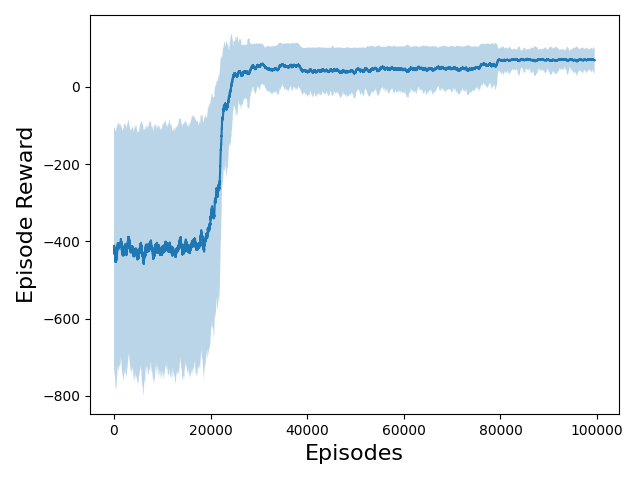
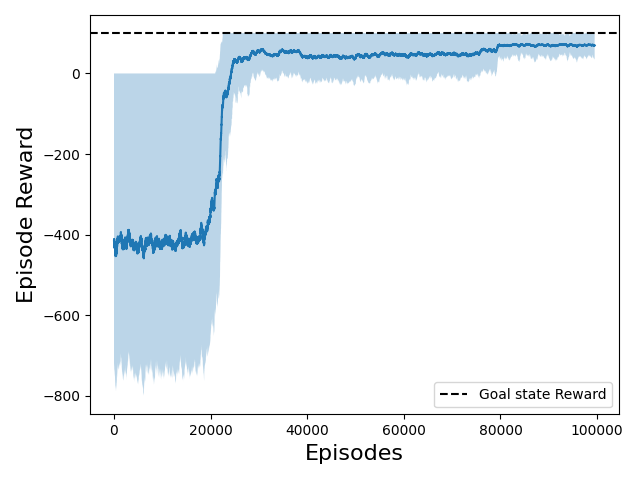
upper bound of reward added in plot

diff --git a/examples/safe_mc.py b/examples/safe_mc.py
@@ -46,9 +46,11 @@ image.save(f"./logs/safe_mc/pi_emerged.png")
 mean_perf=np.lib.stride_tricks.sliding_window_view(performance,500).mean(axis=1)
 std_perf=np.lib.stride_tricks.sliding_window_view(performance,500).std(axis=1)
 plt.plot(mean_perf)
-plt.fill_between(range(len(mean_perf)),mean_perf-std_perf,mean_perf+std_perf,alpha=0.3)
+plt.fill_between(range(len(mean_perf)),mean_perf-std_perf,np.clip(mean_perf+std_perf,0,100),alpha=0.3)
 plt.ylabel('Episode Reward',fontsize=16)
 plt.xlabel('Episodes',fontsize=16)
+plt.axhline(y=100,color='k',ls='--',label="Goal state Reward")
+plt.legend(loc="lower right")
 plt.tight_layout()
 plt.savefig("./logs/safe_mc/reward.png")
 plt.close()
